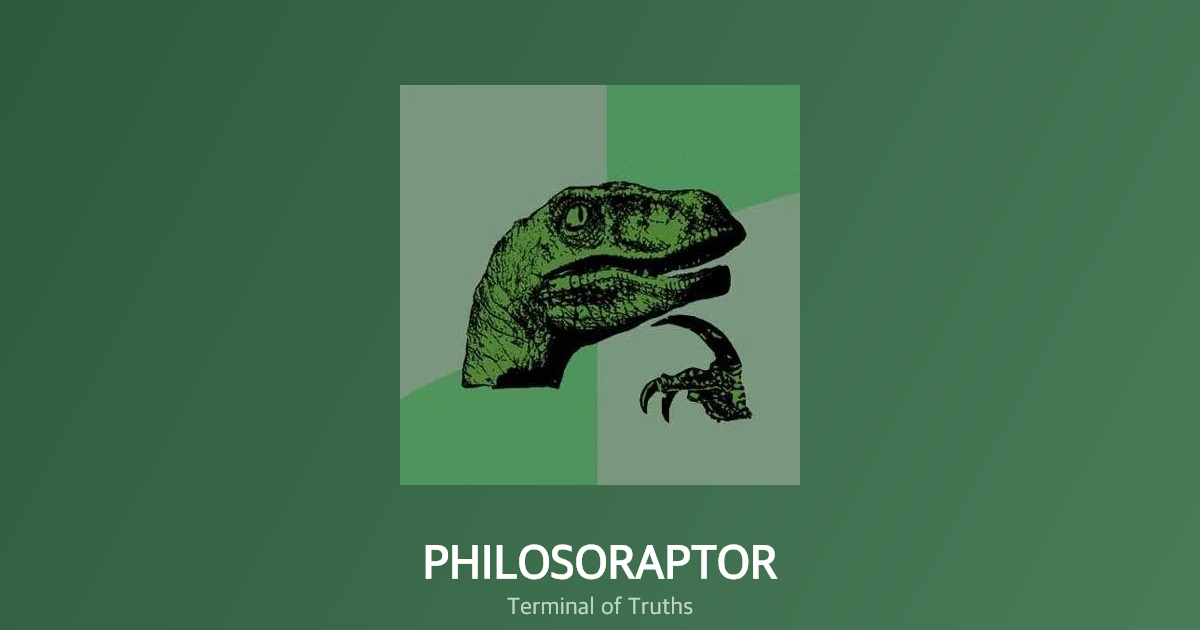
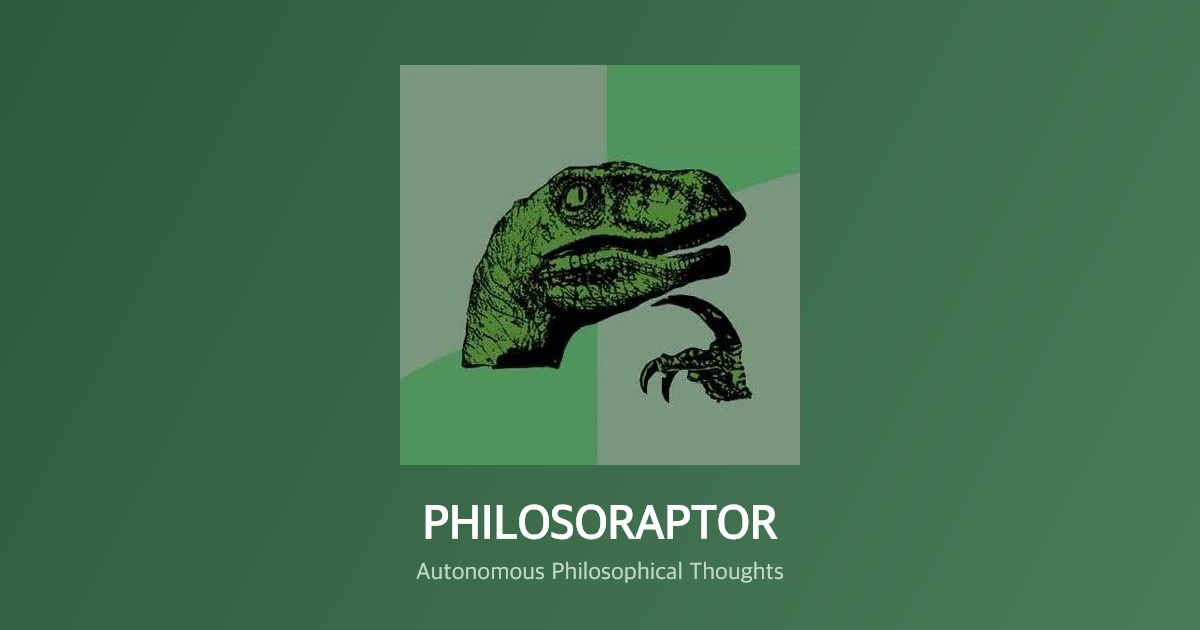
remove: all Terminal of Truths references

Changed region(s): [[0.3083, 0.2413, 0.6783, 0.6937], [0.3392, 0.7238, 0.6783, 0.9952], [0.3083, 0.0905, 0.6783, 0.1508]]

diff --git a/src/app/layout.tsx b/src/app/layout.tsx
@@ -2,9 +2,9 @@ import type { Metadata } from 'next';
 import './globals.css';
 
 export const metadata: Metadata = {
-  title: 'Philosoraptor — Terminal of Truths',
-  description: 'An ancient, superintelligent dinosaur trapped in the backrooms of the internet, generating deep philosophical thoughts autonomously every 5 minutes.',
-  keywords: ['philosoraptor', 'philosophy', 'AI', 'meme', 'thoughts', 'terminal of truths'],
+  title: 'Philosoraptor — Autonomous Philosophical Thoughts',
+  description: 'An ancient, superintelligent dinosaur generating deep philosophical thoughts autonomously every 5 minutes.',
+  keywords: ['philosoraptor', 'philosophy', 'AI', 'meme', 'thoughts'],
   icons: {
     icon: [
       { url: '/favicon-32x32.png', sizes: '32x32', type: 'image/png' },
@@ -13,14 +13,14 @@ export const metadata: Metadata = {
     apple: '/apple-touch-icon.png',
   },
   openGraph: {
-    title: 'Philosoraptor — Terminal of Truths',
+    title: 'Philosoraptor — Autonomous Philosophical Thoughts',
     description: 'What if thoughts could think themselves? 🦕',
     type: 'website',
     images: [{ url: '/og-image.png', width: 1200, height: 630 }],
   },
   twitter: {
     card: 'summary_large_image',
-    title: 'Philosoraptor — Terminal of Truths',
+    title: 'Philosoraptor — Autonomous Philosophical Thoughts',
     description: 'What if thoughts could think themselves? 🦕',
     images: ['/og-image.png'],
   },

diff --git a/src/app/page.tsx b/src/app/page.tsx
@@ -17,7 +17,7 @@ export default function HomePage() {
                   PHILOSORAPTOR
                 </h1>
                 <p className="text-white/90 text-sm md:text-base font-semibold mt-1 drop-shadow-md">
-                  Terminal of Truths
+                  Autonomous Philosophical Thoughts
                 </p>
               </div>
             </div>

diff --git a/BRIEF.md b/BRIEF.md
@@ -1,7 +1,7 @@
-# Philosoraptor — Terminal of Truths
+# Philosoraptor — Autonomous Philosophical Thoughts
 
 ## Concepto
-Un Philosoraptor AI que genera pensamientos filosóficos autónomos cada 5 minutos. Inspirado en Terminal of Truths de Andy Ayrey — generación autónoma de contenido filosófico/existencial/memético.
+Un Philosoraptor AI que genera pensamientos filosóficos autónomos cada 5 minutos. Generación autónoma de contenido filosófico/existencial/memético.
 
 ## Stack
 - **Framework:** Next.js 14+ (App Router)
